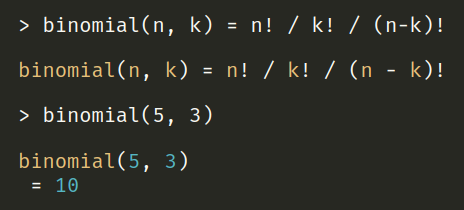
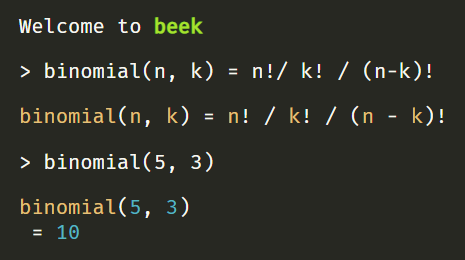
Update

diff --git a/themes/cactus/layouts/partials/head.html b/themes/cactus/layouts/partials/head.html
@@ -2,7 +2,7 @@
   <link rel="preload" href="{{ "lib/font-awesome/webfonts/fa-brands-400.woff2" | relURL }}" as="font" type="font/woff2" crossorigin="anonymous">
   <link rel="preload" href="{{ "lib/font-awesome/webfonts/fa-regular-400.woff2" | relURL }}" as="font" type="font/woff2" crossorigin="anonymous">
   <link rel="preload" href="{{ "lib/font-awesome/webfonts/fa-solid-900.woff2" | relURL }}" as="font" type="font/woff2" crossorigin="anonymous">
-  <link rel="stylesheet" href="https://fonts.googleapis.com/css?family=Noto+Sans">
+  <link rel="stylesheet" href="https://fonts.googleapis.com/css?family=Noto+Sans|Source+Code+Pro">
   <script type="text/javascript" src="https://latest.cactus.chat/cactus.js"></script>
   <link rel="stylesheet" href="https://latest.cactus.chat/style.css" type="text/css">
   <meta charset="utf-8">

diff --git a/themes/cactus/assets/scss/_variables.scss b/themes/cactus/assets/scss/_variables.scss
@@ -1,6 +1,6 @@
 // Fonts
 $font-family-body: 'Noto Sans', sans-serif;
-$font-family-mono: monospace;
+$font-family-mono: 'Source Code Pro', monospace;
 $font-family-tt: monospace;
 $font-size: 18px;
 $line-height: 1.725;

diff --git a/content/_index.md b/content/_index.md
@@ -5,23 +5,67 @@ layout: single
 # **Yuta Imazu**
 
 I'm a software engineer living in Tokyo, Japan. \
-Among many other things, I'm fascinated by command-line apps, web technologies, and synthesizers.
+Among many other things, I'm fascinated by command-line apps, database systems, distributed systems, and synthesizers.
 
 # Projects
 
 ## [indexa](https://github.com/mosmeh/indexa)
 
+A locate alternative with incremental search.
+
 ![](imgs/indexa.png)
 
-A locate alternative with incremental search. \
 Designed to utilize multiple CPU cores and minimize memory usage. \
 Inspired by [Everything](https://www.voidtools.com/), which is another great file locator.
 
+## Bare-metal programs
+
+Programs written for bare-metal environments.
+
+![](imgs/yagura.png)
+
+-   [yagura](https://github.com/mosmeh/yagura): A Unix-like operating system for x86
+-   [x86-bare-metal-raytracer](https://github.com/mosmeh/x86-bare-metal-raytracer): [Ray Tracing in One Weekend](https://raytracing.github.io/books/RayTracingInOneWeekend.html) on x86 bare-metal
+-   [x86-bare-metal-donut](https://github.com/mosmeh/x86-bare-metal-donut): [donut.c](https://www.a1k0n.net/2006/09/15/obfuscated-c-donut.html) on x86 bare-metal
+
+## [mochi](https://github.com/mosmeh/mochi)
+
+Lua runtime implemented in Rust.
+
+```lua
+local function factorial(n)
+    if n == 0 then
+        return 1
+    else
+        return n * factorial(n - 1)
+    end
+end
+
+local n = tonumber(arg[1] or 10)
+print(n .. "! = " .. factorial(n))
+```
+
+```sh {linenos=false}
+$ mochi factorial.lua 12
+12! = 479001600
+```
+
+ - Bytecode VM compatible with PUC-Rio Lua 5.4
+ - Lexer and parser
+ - AST to bytecode compiler
+ - Incremental mark-and-sweep garbage collection
+ - Standard library implementation
+
+## [zakros](https://github.com/mosmeh/zakros)
+
+Redis-compatible in-memory database replicated with [Raft consensus algorithm](https://raft.github.io/). \
+Enjoy strong consistency provided by Raft with familiar Redis interface!
+
 ## Web synthesizers & audio effects
 
-![](imgs/syndx.png)
-
 Various synthesizers and effects utilizing WebAudio [AudioWorklet](https://developer.mozilla.org/en-US/docs/Web/API/AudioWorklet).
+
+![](imgs/syndx.png)
 
 -   [synks](https://mosmeh.github.io/synks/): Karplus-Strong string synthesizer
 -   [synxylo](https://mosmeh.github.io/synxylo/): Physical modeling xylophone synthesizer
@@ -30,28 +74,6 @@ Various synthesizers and effects utilizing WebAudio [AudioWorklet](https://devel
 -   [phaker](https://mosmeh.github.io/phaker/): Physically-based shaker sound synthesizer
 -   [forma](https://mosmeh.github.io/forma/): Formant filter
 -   [web-channel-eq](https://mosmeh.github.io/web-channel-eq/): Ableton Live's Channel EQ
-
-## Bare-metal programs
-
-![](imgs/yagura.png)
-
-Programs written for bare-metal environments.
-
--   [yagura](https://github.com/mosmeh/yagura): A Unix-like operating system for x86
--   [x86-bare-metal-raytracer](https://github.com/mosmeh/x86-bare-metal-raytracer): [Ray Tracing in One Weekend](https://raytracing.github.io/books/RayTracingInOneWeekend.html) on x86 bare-metal
--   [x86-bare-metal-donut](https://github.com/mosmeh/x86-bare-metal-donut): [donut.c](https://www.a1k0n.net/2006/09/15/obfuscated-c-donut.html) on x86 bare-metal
-
-## [mochi](https://github.com/mosmeh/mochi)
-
-![](imgs/mochi.png)
-
-Lua runtime, including:
-
- - Bytecode VM compatible with PUC-Rio Lua 5.4
- - Lexer and parser
- - AST to bytecode compiler
- - Incremental mark-and-sweep garbage collection
- - Standard library implementation
 
 ## [Witchbooru](https://mosmeh.github.io/witchbooru/)
 
@@ -63,9 +85,10 @@ Deployed as an AWS Lambda function.
 
 ## [beek](https://github.com/mosmeh/beek)
 
+A modern REPL-style calculator.
+
 ![](imgs/beek.png)
 
-A modern REPL-style calculator. \
 [Web version](https://mosmeh.github.io/beek/) is built with WebAssembly.
 
 ## [accent](https://github.com/mosmeh/accent)
@@ -74,15 +97,15 @@ Implementation of audio reverberation algorithms.
 
 ## [Synth Playground](https://mosmeh.github.io/synth-playground/)
 
-![](imgs/synth-playground.png)
-
 Web playground to play with WebAudio [AudioWorklet](https://developer.mozilla.org/en-US/docs/Web/API/AudioWorklet).
+
+![](imgs/synth-playground.png)
 
 ## Web services accessible from terminal
 
-![](imgs/uclock.png)
-
 Web apps you can use via curl, wget, etc.
+
+![](imgs/uclock.png)
 
 -   [twch](https://github.com/mosmeh/twch): Twitch chat viewer
 -   [uclock](https://github.com/mosmeh/uclock): Unix time clock
@@ -93,9 +116,9 @@ SoundFont-powered MIDI synthesizer.
 
 ## TUI games
 
-![](imgs/yachtee.png)
-
 Games in text user interface.
+
+![](imgs/yachtee.png)
 
 -   [fifteen](https://github.com/mosmeh/fifteen): The 15-puzzle
 -   [codebreaker](https://github.com/mosmeh/codebreaker): Mastermind
@@ -103,9 +126,9 @@ Games in text user interface.
 
 ## [mahjongg](https://github.com/mosmeh/mahjongg)
 
-![](imgs/mahjongg.png)
-
 Mahjong solitaire game (aka Shanghai) compatible with [GNOME Mahjongg](https://wiki.gnome.org/Apps/Mahjongg) and [KMahjongg](https://games.kde.org/games/kmahjongg/).
+
+![](imgs/mahjongg.png)
 
 ## [mckalah](https://github.com/mosmeh/mckalah)
 
